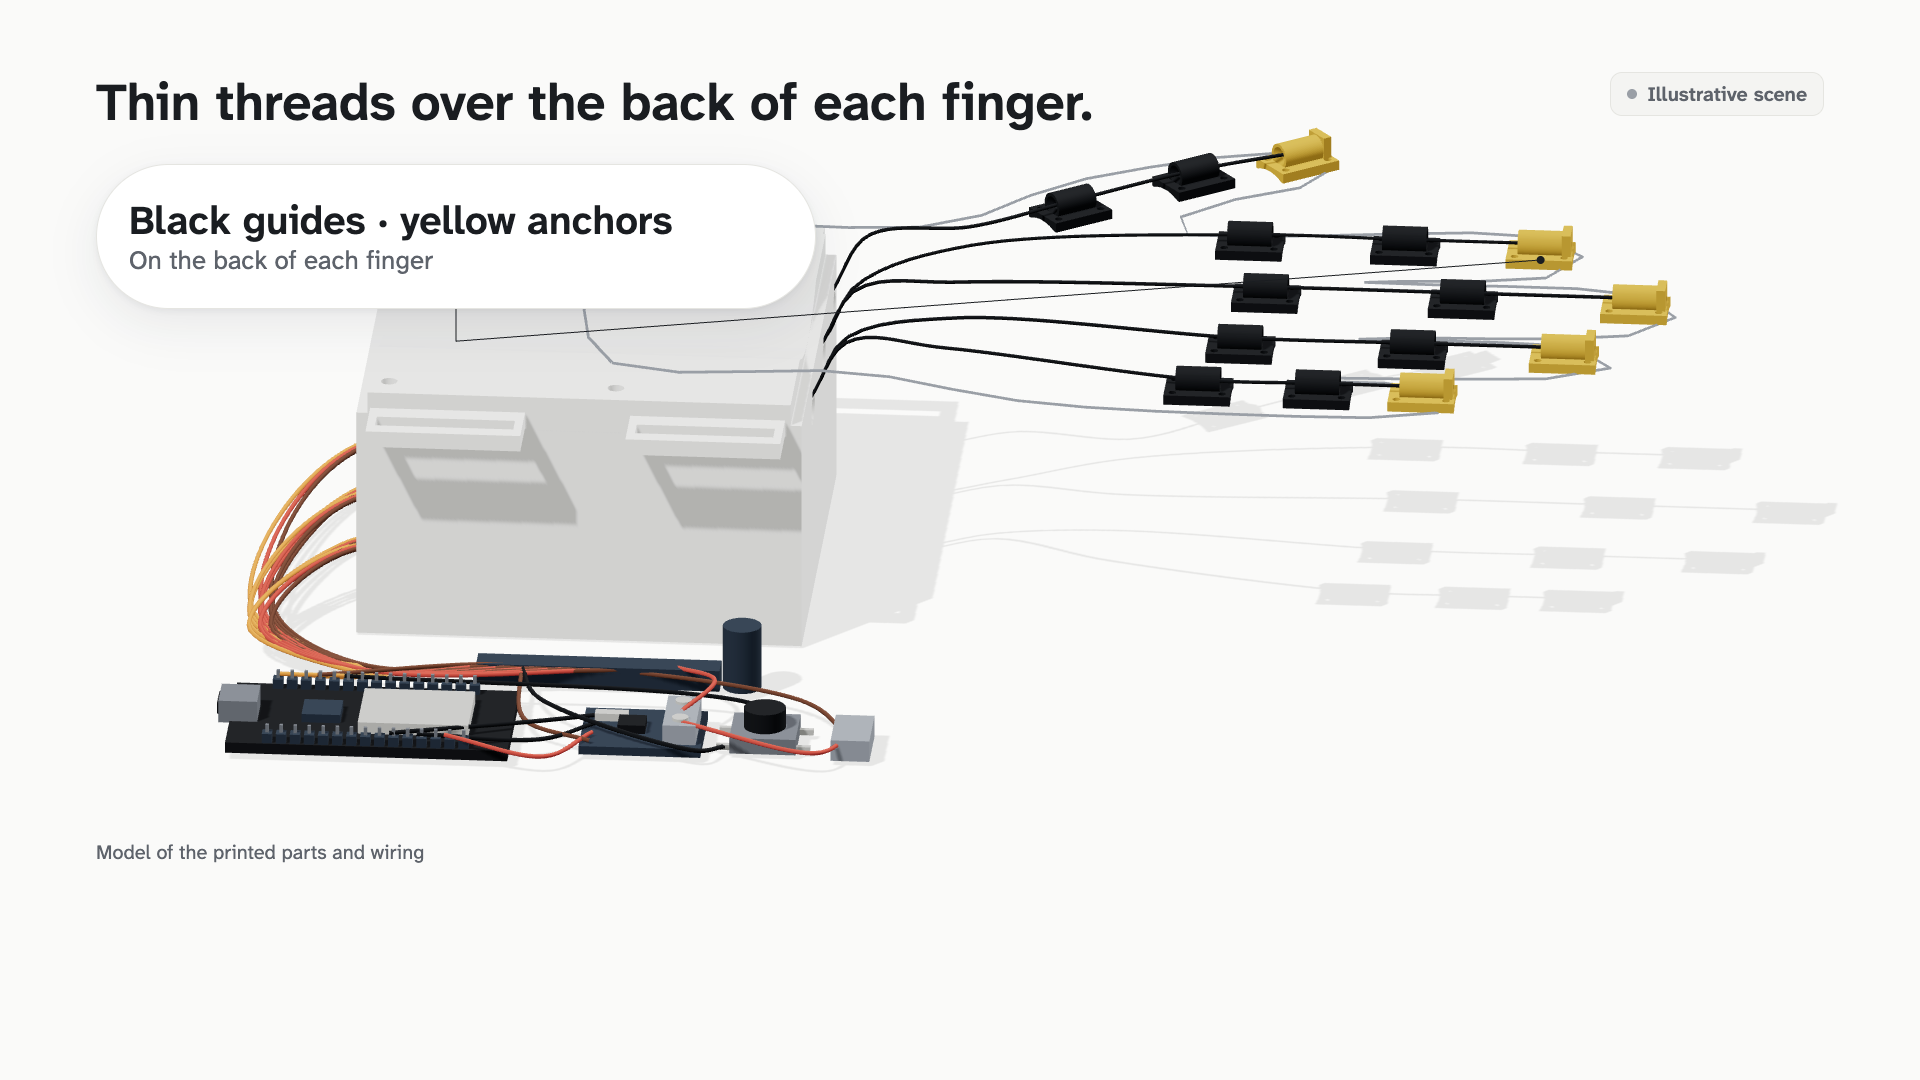
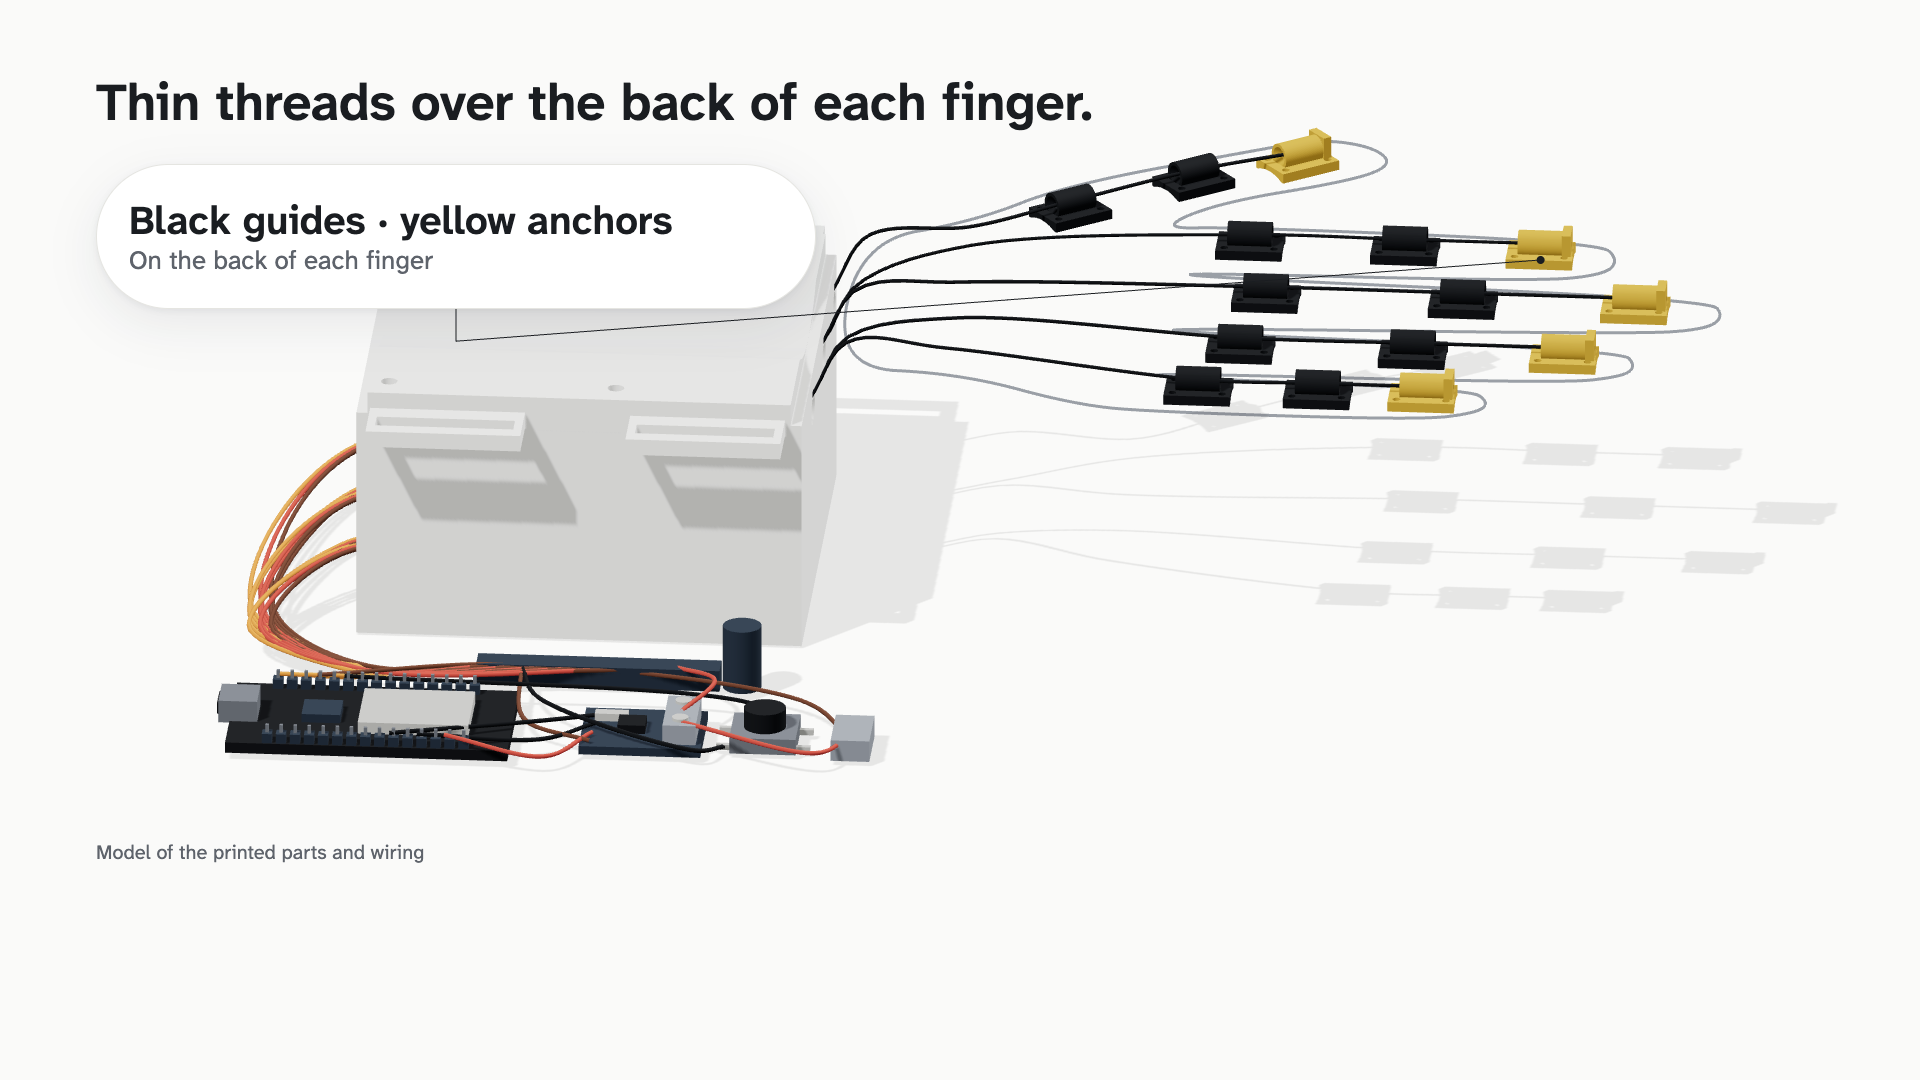
v7: refresh evidence after coordinator review

diff --git a/video/studio/evidence/V7/README.md b/video/studio/evidence/V7/README.md
@@ -1,7 +1,7 @@
 # V7 build montage review
 
 All stills are 1920 × 1080 renders of `scene-build`, including its actual caption layer.
-Nine stills cover all six callouts, the final hand, and three frames of the same leader during the orbit.
+Ten stills cover all six callouts, the final hand, three frames of the same leader during the orbit, and the electronics arrival title clearance.
 
 | Still | Scene frame | Review focus |
 | --- | ---: | --- |
@@ -9,6 +9,7 @@ Nine stills cover all six callouts, the final hand, and three frames of the same
 | [Servos, orbit B](servos-orbit-078.png) | 78 | Same CAD anchor, next orbit angle |
 | [Servos, orbit C](servos-orbit-096.png) | 96 | Same CAD anchor, third orbit angle |
 | [Spools](spools-150.png) | 150 | Winding and release copy |
+| [Electronics title reserve](electronics-title-180.png) | 180 | Last spool drop and first board arrival stay below y = 160 |
 | [ESP32](esp32-195.png) | 195 | Board identification and safety rules |
 | [INA219](sensor-213.png) | 213 | Current sensor; outgoing board label is fading |
 | [Stop button](stop-231.png) | 231 | Stop latch; outgoing sensor label is fading |
@@ -27,7 +28,7 @@ node src/components/hardware/render-v7.mjs
 
 All commands passed. The verifier checks all 288 scene frames for no more than two callouts,
 non-overlapping pills, chapter/caption reserves, visible endpoints after their 6-frame arrival,
-beat timing, and CAD-to-screen projection. It casts a ray back through the projected point and checks
+beat timing, and CAD-to-screen projection. It also verifies the full electronics assembly stays below y = 160 throughout frames 180–233, each guide/anchor center lies inside its finger, and all four finger gaps stay open. It casts a ray back through the projected point and checks
 that the ray passes through the independently transformed CAD anchor.
 
 For frames 60 / 78 / 96, the settled servo anchor projects to these canvas pixels:
@@ -42,3 +43,11 @@ Pills draw their leaders for 6 frames, then fade and rise for 9 frames.
 
 Reviewed every committed still for typography, leader contact, subtitle clearance, and final hand visibility.
 No new dependencies, physical device access, or changes to coordinator-owned contracts.
+
+## Coordinator review fixes
+
+The top-right illustrative badge is removed throughout Build; the existing model footnote remains.
+The electronics dolly fits the visible module and arriving parts inside a title-safe viewport, including
+the final spool drop. The hand outline uses more than 600 projected points with corner rounding that
+preserves the finger gaps, an exact 3 px `c.target` screen stroke at full opacity, and no fill.
+The line is depth-tested so the 3D guides and anchors sit above it. Guides and anchors share their positions with the silhouette checks. All ten stills were refreshed.
